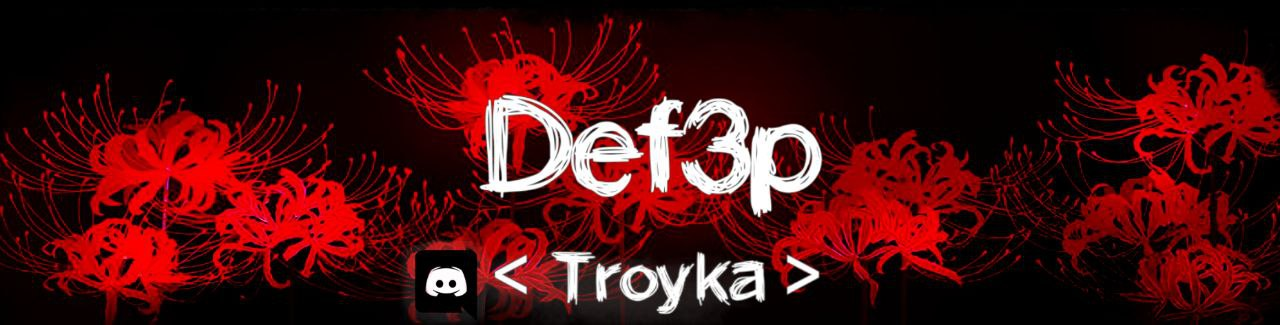
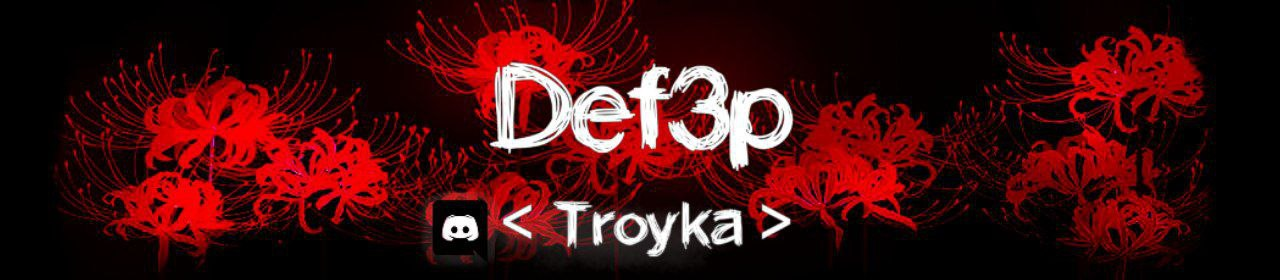
README: Added About Me

diff --git a/README.md b/README.md
@@ -1,6 +1,17 @@
+# **Def3p**
 [![Header](https://github.com/Def3p/def3p/blob/main/images/baneer_for_git.jpg)](https://discord.gg/JqgbQ6SRmr)
 
-About me
+## About Me
+```
+$ echo Hi
+Hi
+
+$ uname 
+Seva
+
+$ whoami
+Student, Programmer, Gamedeveloper
+```
 
 Languages and Tools
 
